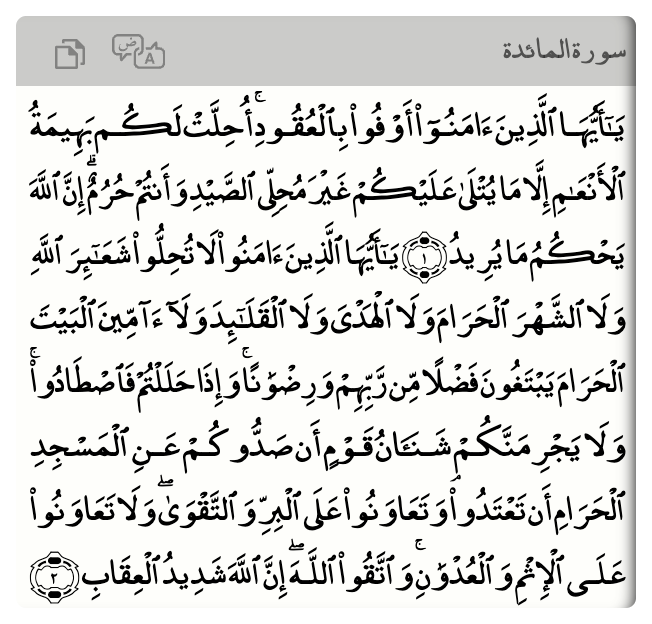
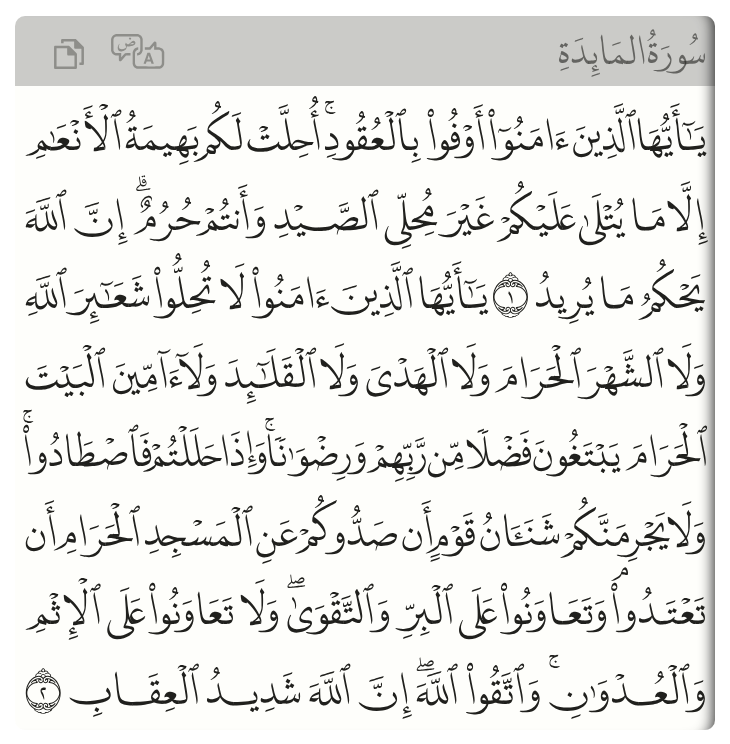
README: v2 screenshots, page 106 next to the print, drop 1.x renders and ignored options
All feature screenshots retaken with v2 (1441H, 2x) by the new
scripts/readme_screenshots.py; page 106 (1405H) now sits next to the printed
scan. The 1.x font gallery and its images are gone, and data-font/data-name
are no longer listed among the options.

Claude-Session: https://claude.ai/code/session_01YKRR2MQoihcuE7pPY2z2LP

Changed region(s): [[0.0, 0.0, 0.9816, 1.0]]

diff --git a/scripts/readme_screenshots.py b/scripts/readme_screenshots.py
@@ -1,0 +1,88 @@
+"""Retake the README screenshots (demo/img/*.png) from the current build.
+
+    npm run build && npm run start      # serves the repo on localhost:8000
+    python scripts/readme_screenshots.py
+
+Each shot is one small page (written to demo/, removed afterwards) holding the tag, captured at
+2x pixel density. Needs Selenium + Chrome (as the render tests do).
+"""
+import base64
+import os
+import time
+
+from selenium import webdriver
+
+ROOT = os.path.join(os.path.dirname(os.path.abspath(__file__)), "..")
+BASE = "http://localhost:8000/demo/"
+PAGE = """<!DOCTYPE html>
+<html dir="rtl" lang="ar"><head><meta charset="utf-8">
+<script src="../dist/quran-madina-html.js" data-cdn="../" data-layout="{layout}"
+        data-font-size="{size}"></script>
+<style>
+  body {{ margin: 0; background: #fff; color: #20201d; }}
+  #shot {{ display: inline-block; padding: 8px; background: #fff; }}
+  {css}
+</style></head>
+<body><div id="shot">{tag}</div></body></html>"""
+
+
+
+def tag(**attrs):
+    """<quran-madina-html a="b" ...></quran-madina-html>"""
+    joined = " ".join(f'{k}="{v}"' for k, v in attrs.items())
+    return f"<quran-madina-html {joined}></quran-madina-html>"
+
+
+SHOTS = [
+    # (file, layout, font size, tag, extra css)
+    ("v2-p50-1441H", "1441H", 22, tag(page=50, headless="true"), ""),
+    ("v2-p50-1405H", "1405H", 22, tag(page=50, headless="true"), ""),
+    ("v2-p50-IndoPak", "IndoPak", 22, tag(page=50, headless="true"), ""),
+    ("p106-1405H", "1405H", 22, tag(page=106, headless="true"), ""),
+    ("verse-default", "1441H", 22, tag(sura=5, aya="1-2"), ""),
+    ("verse-headless", "1441H", 22, tag(sura=5, aya="1-2", headless="true"), ""),
+    ("words-inline", "1441H", 22, tag(sura=1, aya=1, words="1:2"), ""),
+    ("words-multiline", "1441H", 22, tag(sura=1, aya=7, words="1-14"), ""),
+    ("highlight", "1441H", 22, tag(sura=1, aya=1, highlight="2-3"), ""),
+]
+
+
+def main():
+    """Write each shot's page, load it, capture #shot."""
+    opts = webdriver.ChromeOptions()
+    for arg in ("--headless", "--no-sandbox", "--disable-dev-shm-usage", "--hide-scrollbars",
+                "--window-size=900,1400"):
+        opts.add_argument(arg)
+    driver = webdriver.Chrome(options=opts)
+    try:
+        for name, layout, size, html, css in SHOTS:
+            page = os.path.join(ROOT, "demo", f"_shot-{name}.html")
+            with open(page, "w", encoding="utf-8") as fh:
+                fh.write(PAGE.format(layout=layout, size=size, tag=html, css=css))
+            try:
+                driver.get(BASE + os.path.basename(page))
+                for _ in range(80):              # rendered and the font loaded
+                    if driver.execute_script(
+                            "return document.querySelectorAll('quran-madina-html-line').length > 0"
+                            " && document.fonts.status === 'loaded'"):
+                        break
+                    time.sleep(0.25)
+                time.sleep(1.0)
+                out = os.path.join(ROOT, "demo", "img", name + ".png")
+                rect = driver.execute_script(
+                    "var r = document.getElementById('shot').getBoundingClientRect();"
+                    "return {x: r.left + scrollX, y: r.top + scrollY,"
+                    "        width: r.width, height: r.height}")
+                png = driver.execute_cdp_cmd("Page.captureScreenshot", {
+                    "clip": dict(rect, scale=2), "captureBeyondViewport": True})["data"]
+                with open(out, "wb") as fh:
+                    fh.write(base64.b64decode(png))
+                print("wrote", os.path.relpath(out, ROOT))
+            finally:
+                os.remove(page)
+    finally:
+        driver.quit()
+
+
+if __name__ == "__main__":
+    main()

diff --git a/README.md b/README.md
@@ -41,7 +41,7 @@ Three layouts, picked with `data-layout` on the script tag:
 <table>
 <tr>
 <td align="center"><img src="demo/img/v2-p50-1441H.png" width="220" alt="page 50, 1441H"><br/><code>1441H</code> (default)<br/>New Madina Mushaf</td>
-<td align="center"><img src="demo/img/v2-p50-1405H.png" width="220" alt="page 50, 1405H"><br/><code>1405H</code><br/>Old Madina Mushaf (v1's layout)</td>
+<td align="center"><img src="demo/img/v2-p50-1405H.png" width="220" alt="page 50, 1405H"><br/><code>1405H</code><br/>Old Madina Mushaf</td>
 <td align="center"><img src="demo/img/v2-p50-IndoPak.png" width="220" alt="page 50, IndoPak"><br/><code>IndoPak</code><br/>15-line IndoPak</td>
 </tr>
 </table>
@@ -55,7 +55,7 @@ Three layouts, picked with `data-layout` on the script tag:
 |---|---|---|---|
 | Font | DigitalKhatt New Madina | DigitalKhatt Old Madina | DigitalKhatt IndoPak |
 | Text | [Tanzil](https://tanzil.net) Uthmani; pause marks of the 1441H print | Tanzil Uthmani | DigitalKhatt's IndoPak text (IndoPak spelling) |
-| Line breaks | the 1441H print (King Fahd Complex page data) | the 1405H print (same as v1) | DigitalKhatt's IndoPak layout |
+| Line breaks | the 1441H print (King Fahd Complex page data) | the 1405H print | DigitalKhatt's IndoPak layout |
 | Pages | 604 | 604 | 610 |
 
 * Everything else works the same in every layout: `page`, `sura`/`aya`, `words`, `highlight`,
@@ -65,36 +65,19 @@ Three layouts, picked with `data-layout` on the script tag:
 * Spacing follows the print: words keep the print's ink-to-ink gaps, loose lines stretch
   letters, dense lines narrow their words (never the aya numbers). See
   [`docs/v2`](docs/v2/design-decisions.md) for how it was measured against the print.
-* **Drop-in upgrade:** every tag renders with v2, no code changes needed. `data-font` and
-  `data-name` are ignored since 2.0 (a console warning says so); pick a layout with
-  `data-layout` instead. The v1 font databases are no longer shipped in the npm package — pin
-  `quran-madina-html@1` if you need them.
+* **Upgrading from 1.x** is a drop-in replacement: existing tags render with 2.0 unchanged.
+  Pick a layout with `data-layout`; 1.x's font options no longer apply (pin
+  `quran-madina-html@1` to keep the 1.x renderer).
 
-## History: the 1.x renderer
+## Next to the print
 
-Version 1 inserted tatweels and scaled whole lines to fit. Page 106, rendered by 1.x next to a
-scan of the actual printed page:
-
-<table>
-<tr>
-<td align="center"><img src="demo/img/p106-image.JPG" width="190" alt="Scanned Madina Mushaf page 106"><br/>Printed Madina Mushaf</td>
-<td align="center"><img src="demo/img/p106-hafs.png" width="190" alt="quran-madina-html rendering of page 106"><br/><code>&lt;quran-madina-html page="106" headless="true"&gt;</code></td>
-</tr>
-</table>
-
-1.x supported several fonts through `data-font` — `Hafs`, `Uthman`, `Amiri Quran`,
-`Amiri Quran Colored` (tajweed rules color-coded) and `me_quran`:
+Page 106 of the printed (1405H) Madina Mushaf, and the same page rendered with
+`data-layout="1405H"` — same lines, same words on each line, as live text:
 
 <table>
 <tr>
-<td align="center"><img src="demo/img/p106-hafs.png" width="170" alt="Hafs font"><br/>Hafs</td>
-<td align="center"><img src="demo/img/p106-uthman.png" width="170" alt="Uthman font"><br/>Uthman</td>
-<td align="center"><img src="demo/img/p106-amiri.png" width="170" alt="Amiri Quran font"><br/>Amiri Quran</td>
-</tr>
-<tr>
-<td align="center"><img src="demo/img/p106-amiri-colored.png" width="170" alt="Amiri Quran Colored font"><br/>Amiri Quran Colored</td>
-<td align="center"><img src="demo/img/p106-me_quran.png" width="170" alt="me_quran font"><br/>me_quran</td>
-<td></td>
+<td align="center"><img src="demo/img/p106-image.JPG" width="260" alt="Scanned Madina Mushaf page 106"><br/>Printed Madina Mushaf</td>
+<td align="center"><img src="demo/img/p106-1405H.png" width="260" alt="quran-madina-html rendering of page 106"><br/><code>&lt;quran-madina-html page="106" headless="true"&gt;</code></td>
 </tr>
 </table>
 
@@ -115,7 +98,7 @@ that chrome and keep only the Quran text:
 </quran-madina-html>
 ```
 
-<img src="demo/img/verse-default.png" width="260" alt="Verse range with the default header">
+<img src="demo/img/verse-default.png" width="300" alt="Verse range with the default header">
 </td>
 <td align="center">
 
@@ -125,7 +108,7 @@ that chrome and keep only the Quran text:
 </quran-madina-html>
 ```
 
-<img src="demo/img/verse-headless.png" width="260" alt="Same verse range, headless">
+<img src="demo/img/verse-headless.png" width="300" alt="Same verse range, headless">
 </td>
 </tr>
 </table>
@@ -147,10 +130,11 @@ and even sura boundaries:
 </quran-madina-html>
 ```
 
-first two words of Al-Fatiha; the dashed
-outline marks the hidden remainder of the line
+first two words of Al-Fatiha; the rest of the
+line stays in place, hidden (the blank before
+the closing quote)
 <br/><br/>
-<img src="demo/img/words-inline.png" width="260" alt="words attribute, inline selection">
+<img src="demo/img/words-inline.png" width="216" alt="words attribute, inline selection">
 </td>
 <td align="center">
 
@@ -164,7 +148,7 @@ words 1-14 counted from Al-Fatiha's last aya
 spill into Surat Al-Baqara — its basmala
 counts as words 10-13
 <br/><br/>
-<img src="demo/img/words-multiline.png" width="260" alt="words attribute, spanning Al-Fatiha into Al-Baqara">
+<img src="demo/img/words-multiline.png" width="300" alt="words attribute, spanning Al-Fatiha into Al-Baqara">
 </td>
 </tr>
 </table>
@@ -179,7 +163,7 @@ a `words` selection, and even on a full `page` render:
 <quran-madina-html sura="1" aya="1" highlight="2-3"></quran-madina-html>
 ```
 
-<img src="demo/img/highlight.png" width="260" alt="highlight attribute marking words 2-3 of Al-Fatiha's first aya">
+<img src="demo/img/highlight.png" width="216" alt="highlight attribute marking words 2-3 of Al-Fatiha's first aya">
 
 ## Getting Started
 
@@ -199,7 +183,6 @@ Or include directly via **CDN script tag** in your HTML `<head>`:
 
 * ``data-layout``: ``1441H`` (default), ``1405H``, ``IndoPak`` — see *New in 2.0* above
 * ``data-font-size`` defaults to 16 (px); any size works
-* ``data-font`` / ``data-name``: ignored since 2.0 (a console warning is logged)
 
 Then in your body, just add the tag.
 
@@ -288,7 +271,6 @@ By default a multiline render gets a header (sura name + copy/translate icons); 
 | `notitle` | `boolean \| string` | `false` | Set to `"true"` to hide sura name text while retaining title frame decoration. |
 | `data-layout` | `string` | `"1441H"` | Layout: `1441H`, `1405H`, `IndoPak`. |
 | `data-font-size` | `number \| string` | `16` | Font size in px; any size. |
-| `data-font`, `data-name` | `string` | - | Ignored since 2.0 (logs a warning). |
 | `data-cdn` | `string` | unpkg | Base URL for the CSS and databases (self-hosting, offline apps). |
 
 ## React wrapper
@@ -337,6 +319,9 @@ python src/db/v2/check_v2_db.py assets/db/v2/Madina-1441H.json
 ```
 
 Download the Tanzil text as *Uthmani*, with pause marks, sajda and rub-el-hizb signs.
+
+The README screenshots in `demo/img` are taken from the current build by
+`python scripts/readme_screenshots.py` (with `npm run start` running).
 
 ## Credits
 
